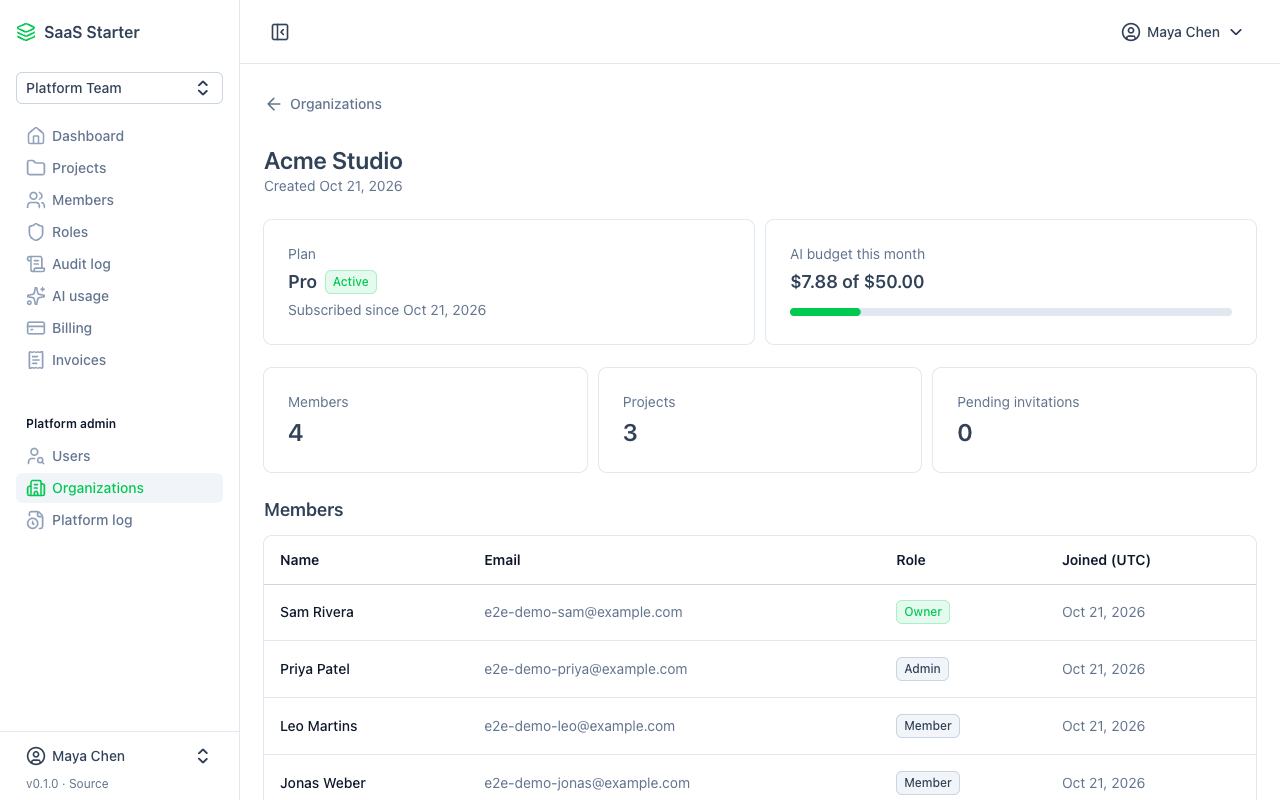
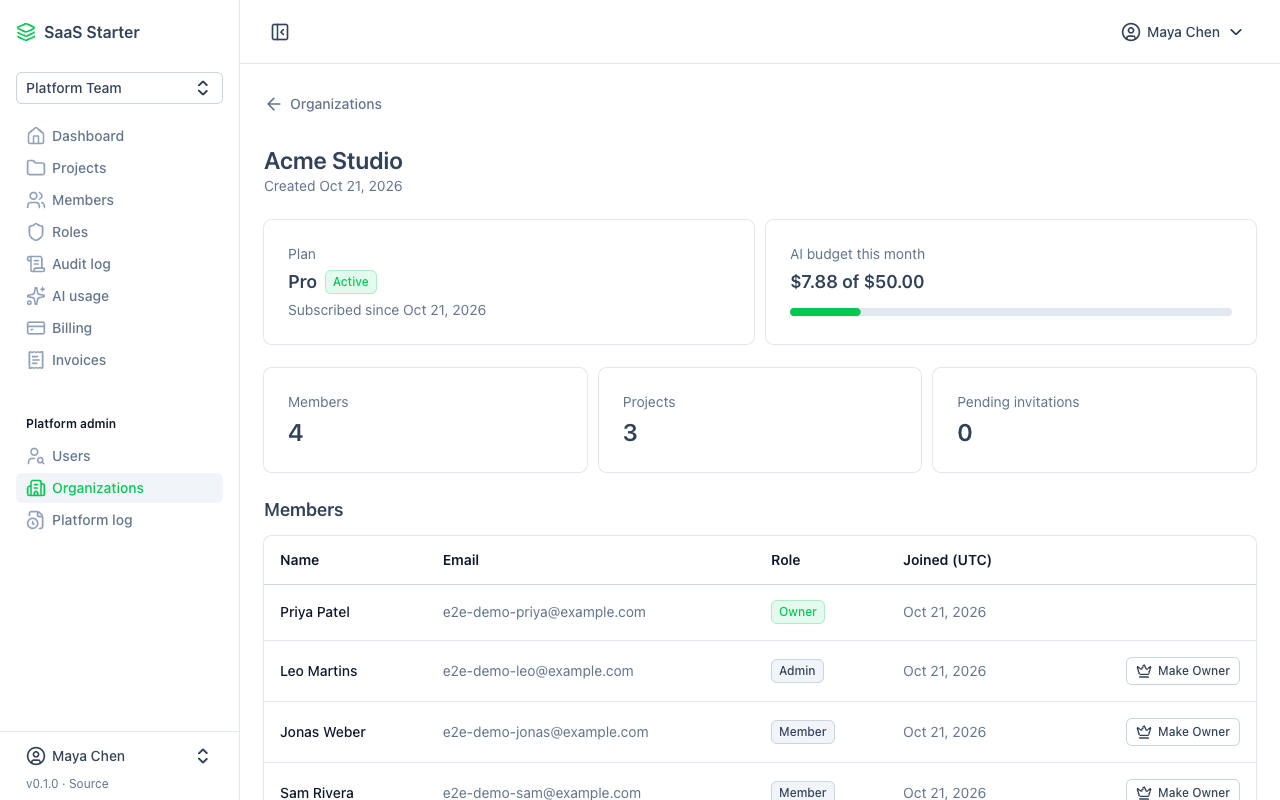
docs: platform admin actions in the README and CLAUDE.md, with a screenshot

diff --git a/README.md b/README.md
@@ -21,7 +21,7 @@ A quick tour, as a user would see it:
 6. **Pay for more.** Organizations start on **Free**. **Pro** (a monthly Stripe subscription) raises the AI budget, and one-time **AI credits** add to this month's budget on any plan. Card details, invoices and cancelling are handled on Stripe's own pages.
 7. **Manage your account.** Verify your email, reset a forgotten password, change your name, email or password, turn on two-factor authentication with an authenticator app, see where you're logged in and sign out other devices, or delete your account.
 8. **See what happened.** The **audit log** records who did what and when (members, roles, projects, AI reviews, plan changes and purchases), with before and after values.
-9. **Run the platform.** People who run the app (platform admins, made from the command line) get a read-only admin area to look up any user or organization for support: their organizations and roles, plan, AI budget, counts and members, never project content. It needs two-factor authentication, and every lookup is recorded in a platform log that organizations don't see.
+9. **Run the platform.** People who run the app (platform admins, made from the command line) get an admin area to look up any user or organization for support: their organizations and roles, plan, AI budget, counts and members, never project content. They can also fix the usual support cases: reset a user's two-factor after a lost phone, sign them out everywhere, suspend or unsuspend them, or make a member Owner of an organization whose owners are gone. It needs two-factor authentication, and every lookup and action (with the admin's reason) is recorded in a platform log that organizations don't see; an organization's own audit log shows ownership changes as made by "Platform admin".
 
 ## Key ideas
 
@@ -114,6 +114,7 @@ Key settings in `api/.env`:
 | `AI_RATE_LIMIT_PER_MINUTE` | `5` | AI requests per organization per minute |
 | `AUDIT_RETENTION_DAYS` | `365` | Days to keep audit log entries (organization and platform); `0` keeps them forever |
 | `ADMIN_TWO_FACTOR_TTL_MINUTES` | `720` | Platform admin pages ask for a fresh two-factor code once the last one on that device is older than this |
+| `ADMIN_ACTION_TWO_FACTOR_TTL_MINUTES` | `15` | Platform admin actions (suspend, reset two-factor, ...) ask for a fresh code once the last one on that device is older than this |
 | `BILLING_PROVIDER` | `stripe` | `fake` makes no Stripe calls: checkout goes straight back to the billing page and changes nothing |
 | `STRIPE_KEY`, `STRIPE_SECRET` | empty | Stripe API keys (test mode locally), used only by the API |
 | `STRIPE_WEBHOOK_SECRET` | empty | Signing secret of the webhook. Without it every webhook is refused, so subscriptions never sync |
@@ -220,7 +221,8 @@ Every feature, with its API endpoints and web page. This is the detailed referen
 | Project chat: "Ask AI" on a project opens a chat about that project (its name, description and approved summary). Answers stream in and can be stopped; the conversation is saved per user and only they see it; they can clear it, and it's deleted when they leave the organization. The AI can't change anything. Needs "Use AI features" plus view projects; counts against the budget and rate limit | `GET`, `POST` (`text/event-stream`), `DELETE /api/projects/{id}/chat` | Project page |
 | AI usage and budget: calls, tokens and cost by feature, person and day for a month ("View AI usage and cost", Admin by default). A monthly budget per organization (its plan's: `AI_MONTHLY_BUDGET_USD`, default $5, on Free, `BILLING_PRO_AI_BUDGET_USD` on Pro, plus AI credits bought that month; owners can lower theirs, 0 turns AI off) blocks AI requests once used up. Using AI needs the "Use AI features" permission (Admin and Member by default) | `GET /api/ai-usage?month=YYYY-MM`, `PUT /api/ai-budget` | `/ai-usage` |
 | Billing: Free and Pro plans per organization, Pro raising the monthly AI budget. Upgrading opens Stripe Checkout; the Customer Portal changes the card, shows invoices and cancels (Pro stays until the paid period ends, and while Stripe retries a failed renewal). Invoices (plan and credits) are listed in the app, read live from Stripe (drafts left out, 20 at a time), with "View"/"Pay" and PDF links to Stripe's hosted pages. Plans come from `config/billing.php`; only the webhook changes a subscription, and plan changes are audited. AI credits: a one-time $10 pack (Stripe Checkout) adds to the AI budget for the rest of that UTC month, on any plan; granted once per paid checkout, and audited. Needs "Manage the plan, payment details and invoices" (Owner only by default) | `GET /api/billing`, `POST /api/billing/checkout`, `POST /api/billing/credits/checkout`, `POST /api/billing/portal`, `GET /api/billing/invoices`, `POST /api/stripe/webhook` (Stripe-signed) | `/billing`, `/billing/invoices` |
-| Platform admin (read-only): search users (name, email) and organizations (name), 25 a page; a user's organizations, roles, devices and last activity; an organization's plan and subscription, AI budget this month, counts (members, projects, pending invitations) and members. Admins are made with `php artisan admin:grant {email}` (they need two-factor on first) / `admin:revoke`, never through the API; turning two-factor off ends admin until granted again. Admin routes answer 404 to everyone else, and need two-factor on (403 `two_factor_required`) plus a code on this device within `ADMIN_TWO_FACTOR_TTL_MINUTES` (403 `two_factor_reauth`; logging in with a code from the app counts, a recovery code doesn't). Opening a user or organization is recorded in the platform log (who, when, IP), which organizations never see; searches aren't recorded | `GET /api/admin/users`, `GET /api/admin/users/{id}`, `GET /api/admin/organizations`, `GET /api/admin/organizations/{id}`, `GET /api/admin/audit-log`; `POST /api/account/two-factor/reconfirm` (a fresh code) | "Platform admin" in the sidebar: `/admin/users`, `/admin/organizations`, `/admin/audit-log` |
+| Platform admin lookups: search users (name, email) and organizations (name), 25 a page; a user's organizations, roles, devices and last activity; an organization's plan and subscription, AI budget this month, counts (members, projects, pending invitations) and members. Admins are made with `php artisan admin:grant {email}` (they need two-factor on first) / `admin:revoke`, never through the API; turning two-factor off ends admin until granted again. Admin routes answer 404 to everyone else, and need two-factor on (403 `two_factor_required`) plus a code on this device within `ADMIN_TWO_FACTOR_TTL_MINUTES` (403 `two_factor_reauth`; logging in with a code from the app counts, a recovery code doesn't). Opening a user or organization is recorded in the platform log (who, when, IP), which organizations never see; searches aren't recorded | `GET /api/admin/users`, `GET /api/admin/users/{id}`, `GET /api/admin/organizations`, `GET /api/admin/organizations/{id}`, `GET /api/admin/audit-log`; `POST /api/account/two-factor/reconfirm` (a fresh code) | "Platform admin" in the sidebar: `/admin/users`, `/admin/organizations`, `/admin/audit-log` |
+| Platform admin actions, each with a reason (10–500 characters, in the platform log only) and a code on this device within `ADMIN_ACTION_TWO_FACTOR_TTL_MINUTES`: reset a user's two-factor (signs them out everywhere and emails them), sign them out everywhere, suspend them (signed out; login, two-factor, password reset and old tokens refused with "This account is suspended") or unsuspend them, and make an existing member Owner (emailed; the organization's audit log shows "Platform admin" without the name or IP). Never on platform admins, yourself included: no admin can be made Owner this way | `POST /api/admin/users/{id}/two-factor/reset`, `POST /api/admin/users/{id}/sign-out`, `POST /api/admin/users/{id}/suspend`, `POST /api/admin/users/{id}/unsuspend`, `POST /api/admin/organizations/{id}/owners` | The Actions card on `/admin/users/{id}`; "Make Owner" in the members table on `/admin/organizations/{id}` |
 
 Organization routes act on the user's **current** organization (`users.current_organization_id`). Tenant-owned models use the `BelongsToOrganization` trait, so another organization's records return 404.
 
@@ -232,9 +234,13 @@ Demo data with real Claude answers (Haiku), light mode.
 
 **Users**: everyone with an account, searchable by name or email.
 
-![Platform admin user search with verified, two-factor and admin badges](docs/screenshots/admin-users.png)
+![Platform admin user search with unverified, suspended, two-factor and admin badges](docs/screenshots/admin-users.png)
 
-**An organization** as an admin sees it: plan, AI budget, counts and members, no project content.
+**Acting on a user**: reset their two-factor, sign them out everywhere, or suspend them, each with a reason for the platform log.
+
+![Reset two-factor dialog on a user's admin page, with a reason filled in](docs/screenshots/admin-user-actions.png)
+
+**An organization** as an admin sees it: plan, AI budget, counts and members (with Make Owner), no project content.
 
 ![Platform admin page of an organization on the Pro plan with its AI budget, counts and members](docs/screenshots/admin-organization.png)
 

diff --git a/CLAUDE.md b/CLAUDE.md
@@ -69,8 +69,10 @@
 
 ## Platform admin conventions
 - Platform admins run the app; it's not an organization role. `users.is_platform_admin` is not fillable and changes only through `php artisan admin:grant` (refused without 2FA) / `admin:revoke`, never an API request. Turning 2FA off revokes it (`DisableTwoFactor`, logged).
-- Admin routes (`/api/admin/*`) sit outside the `organization` group behind `platform-admin` (`EnsurePlatformAdmin`): 404 for non-admins, 403 `two_factor_required` without 2FA, 403 `two_factor_reauth` unless this token's `two_factor_at` is within `config('admin.two_factor_ttl_minutes')`. Tokens get `two_factor_at` only from a code of the existing factor: the login challenge with an app code (`IssueToken(..., twoFactor: true)`; not a recovery code) or `POST /api/account/two-factor/reconfirm`. Confirming a new setup doesn't count. `EnsurePlatformAdmin` runs before route bindings and answers with the router's own 404, and the `admin` limiter skips non-admins, so nothing reveals the area.
-- Cross-organization reads live only in `app/Actions/Admin`, with explicit `withoutGlobalScope(OrganizationScope::class)->where('organization_id', …)` (or `Membership::loadRoles`). They never set `CurrentOrganization` or change the admin's membership, and never read project content or chats.
+- Admin routes (`/api/admin/*`) sit outside the `organization` group behind `platform-admin` (`EnsurePlatformAdmin`): 404 for non-admins, 403 `two_factor_required` without 2FA, 403 `two_factor_reauth` unless this token's `two_factor_at` is within `config('admin.two_factor_ttl_minutes')`. Tokens get `two_factor_at` only from a code of the existing factor: the login challenge with an app code (`IssueToken(..., twoFactor: true)`; not a recovery code) or `POST /api/account/two-factor/reconfirm`. Confirming a new setup doesn't count. `EnsurePlatformAdmin` runs before route bindings and answers with the router's own 404, and the `admin` limiter skips non-admins, so nothing reveals the area. A wrong method (405) or a plain OPTIONS on `api/admin/*` gets that 404 too (`bootstrap/app.php`, `routes/api.php`).
+- Cross-organization reads and writes live only in `app/Actions/Admin`, with explicit `withoutGlobalScope(OrganizationScope::class)->where('organization_id', …)` (or `Membership::loadRoles`). They never set `CurrentOrganization` (the one exception: `RecordAudit`'s `organization:` runs as it just for the insert) or change the admin's membership, and never read project content or chats.
+- Admin actions take a `reason` (`AdminActionRequest`, kept in the platform log only), sit behind `platform-admin:action` (a code within `config('admin.action_two_factor_ttl_minutes')`), and never act on a platform admin, yourself included (`ActsOnUsers`; Make Owner refuses admins as the member too). A change inside an organization is also written to its audit log with `RecordAudit(..., byPlatformAdmin: true)`: no actor or IP, shown as "Platform admin".
+- A suspended user (`users.suspended_at`, `User::isSuspended`) is refused by login, the two-factor challenge, password reset (no link is sent) and `Sanctum::authenticateAccessTokensUsing`. A new way to log in or get a token must check it too.
 - Responses use `App\Http\Resources\Admin\*`, which list every field; don't reuse `UserResource`/`OrganizationResource` there.
 - What admins look at or change goes in the platform log (`RecordPlatformAudit`, `App\Enums\PlatformAuditAction`), not an organization's audit log. Detail views are logged; list searches aren't (they hold emails).
 - Tests send a real token from `platformAdmin()` / `adminToken()` (`tests/Pest.php`), since `Sanctum::actingAs` has no `two_factor_at`.
